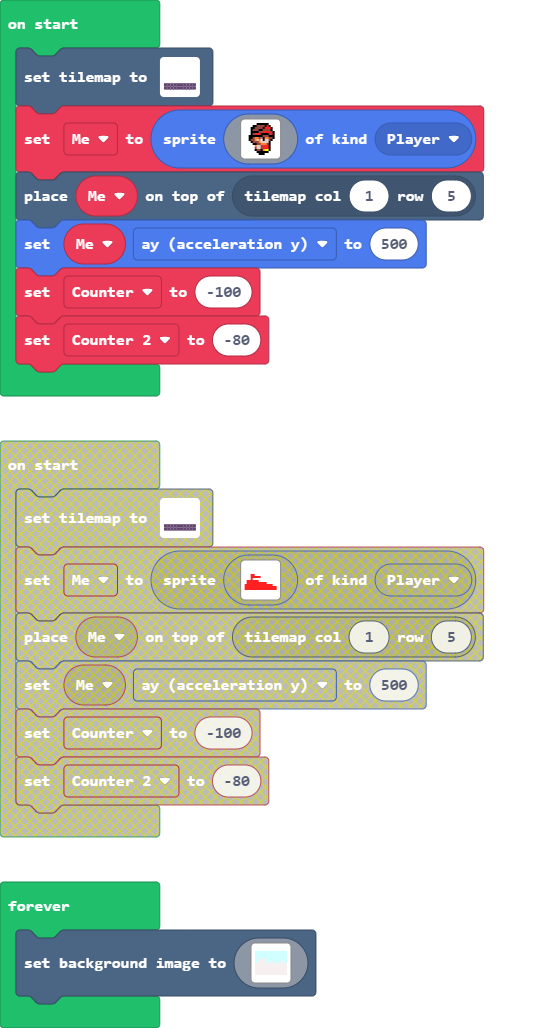
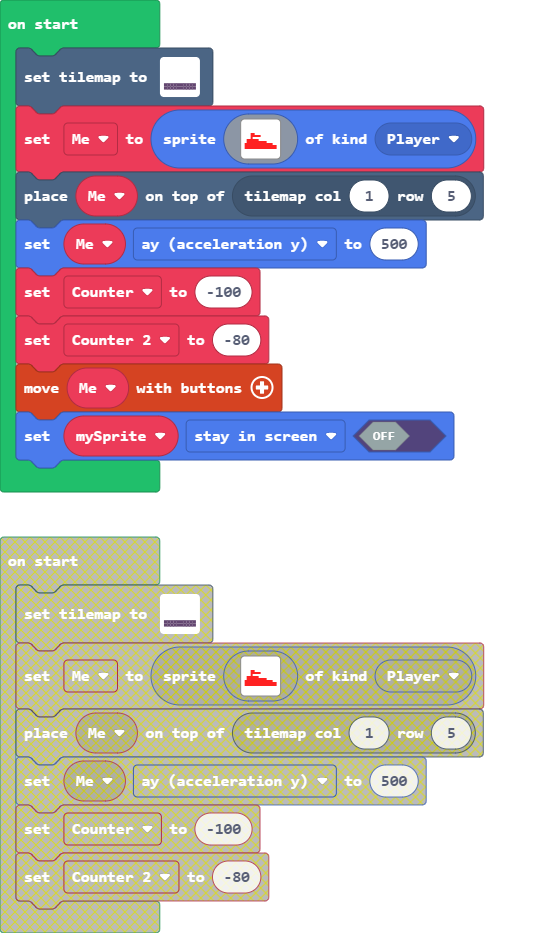
Update main.blocks, main.ts

diff --git a/main.ts b/main.ts
@@ -7,6 +7,7 @@ sprites.onOverlap(SpriteKind.Player, SpriteKind.Projectile, function (sprite, ot
     game.over(false)
 })
 let Geese: Sprite = null
+let mySprite: Sprite = null
 let Me: Sprite = null
[1 lines of base64/hex data omitted]
     . . . . . . . . . . 
@@ -40,6 +41,8 @@ tiles.placeOnTile(Me, tiles.getTileLocation(1, 5))
 Me.ay = 500
 let Counter = -100
 let Counter_2 = -80
+controller.moveSprite(Me)
+mySprite.setFlag(SpriteFlag.StayInScreen, false)
 game.onUpdateInterval(1000, function () {
     Counter += -20
     Counter_2 += -20
